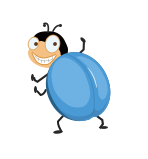
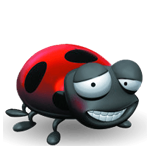
UPDATE

diff --git a/server/dc/protected/views/game/dcz_in_app.php b/server/dc/protected/views/game/dcz_in_app.php
@@ -95,10 +95,10 @@ display: none;
 	
 	<script type="text/javascript">
 	    window.shareData = {
-	        "imgUrl": "",
+	        "imgUrl": "http://"+window.location.host+"/assets/games/dcz/02.png",
 	        "timeLineLink": "",
-	        "tTitle": "保护萌主，拍死寄生虫！",
-	        "tContent": "怎么可以让这些臭虫打扰到萌主大人睡觉，20秒钟拍死虫子！"
+	        "tTitle": "你捉虫，我买单！为萌星店长筹集洗澡费啦~",
+	        "tContent": "每打死100只虫子，就能为萌星店长筹集1元的洗澡费！快来试试，你能打死几只吧？"
 	    };
 
 	    if (isDesktop)
@@ -355,7 +355,7 @@ display: none;
 	        }
 	        document.getElementById('GameScoreLayer-bast').innerHTML = '最佳&nbsp;&nbsp;' + bast;
 	        l.style.display = 'block';
-	        window.shareData.tTitle = '我为萌主拍死了' + _gameScore + '个虫子，不服来挑战！！！'
+	        window.shareData.tTitle = '你捉虫，我买单！为萌星店长筹集洗澡费啦~';
 	    }
 	    function hideGameScoreLayer() {
 	        var l = document.getElementById('GameScoreLayer');
@@ -373,16 +373,18 @@ display: none;
 	    var mebtnopenurl = '';
 		var gototop='';
 	    function shareText(score) {
-	        if (score <= 49)
-	            return '什么！才拍死了'+score+'只!<br/>萌主大人被吵醒了，真是罪该万死……';
+	        if (score <= 29)
+	            return '才捉到'+score+'只虫子，人类，你不够努力！！！萌星店长还等着洗澡呐！';
+	        if (score <= 59)
+	            return '好可惜，你捉到了'+score+'只虫子，还差'+(100-score)+'只，你就可以为萌星店长筹集到一元洗澡费了！继续加油吧！';
 	        if (score <= 99)
-	            return '太厉害了！拍死了'+score+'只虫子呢!<br/>奖励飞吻一个，萌主爱你~么么哒~.';
-	        if (score <= 149)
-	            return '真是醉了！居然打死了'+score+'只!<br/>星球大使终于同意你和萌主在一起了!';
+	            return '我爱洗澡，皮肤好好！地球人你捉到了'+score+'只虫子，为了萌星店长的洗澡费，请继续努力吧！100只就在触手可及的前方！！！';
 	        if (score <= 199)
-	            return '肿么了！居然打死了'+score+'只!<br/>太帅了，宠物星球的萌主们排队求包养！';
+	            return '恭喜！你捉到了'+score+'只虫子，成功为萌星店长筹集到1元洗澡费，再接再厉哦！';
+            if (score <= 159)
+                return '萌星店长发来感谢信，感谢你捉到'+score+'只虫子，为它筹集到1元的洗澡费！';
 
-	        return '肿么了！居然打死了'+score+'只!<br/>亲，你真的是地球人吗，再也没人能超越你了！';
+	        return '逆天了！捉到了'+score+'只虫子，你一定有练过佛山无影手吧！';
 	    }
 
 	    function toStr(obj) {
@@ -464,8 +466,8 @@ display: none;
 		<div class="welcome-bg FILL"></div>
 		<div class="FILL BOX-M" style="position:absolute;top:0;left:0;right:0;bottom:0;z-index:5;">
 			<div style="margin:0 8% 0 9%;">
-				<div style="font-size:2.6em; color:#FEF002;">保护萌主<br/>拍死寄生虫</div><br/>
-				<div style="font-size:2.2em; color:#fff; line-height:1.5em;">怎么可以让这些臭虫打扰萌主大人睡觉<br/>20秒拍死虫子<br/></div><br/><br/>
+				<div style="font-size:2.6em; color:#FEF002;">你捉虫，我买单！</div><br/>
+				<div style="font-size:2.2em; color:#fff; line-height:1.5em;">萌星店长快被虫子包围了<br/>快打死虫子为它筹集洗澡费吧<br/></div><br/><br/>
 				<div id="ready-btn" class="btn loading" style="display:inline-block; margin:0 auto; width:8em; height:1.7em; line-height:1.7em; font-size:2.2em; color:#fff;"></div>
 			<br/><br/>
 			
